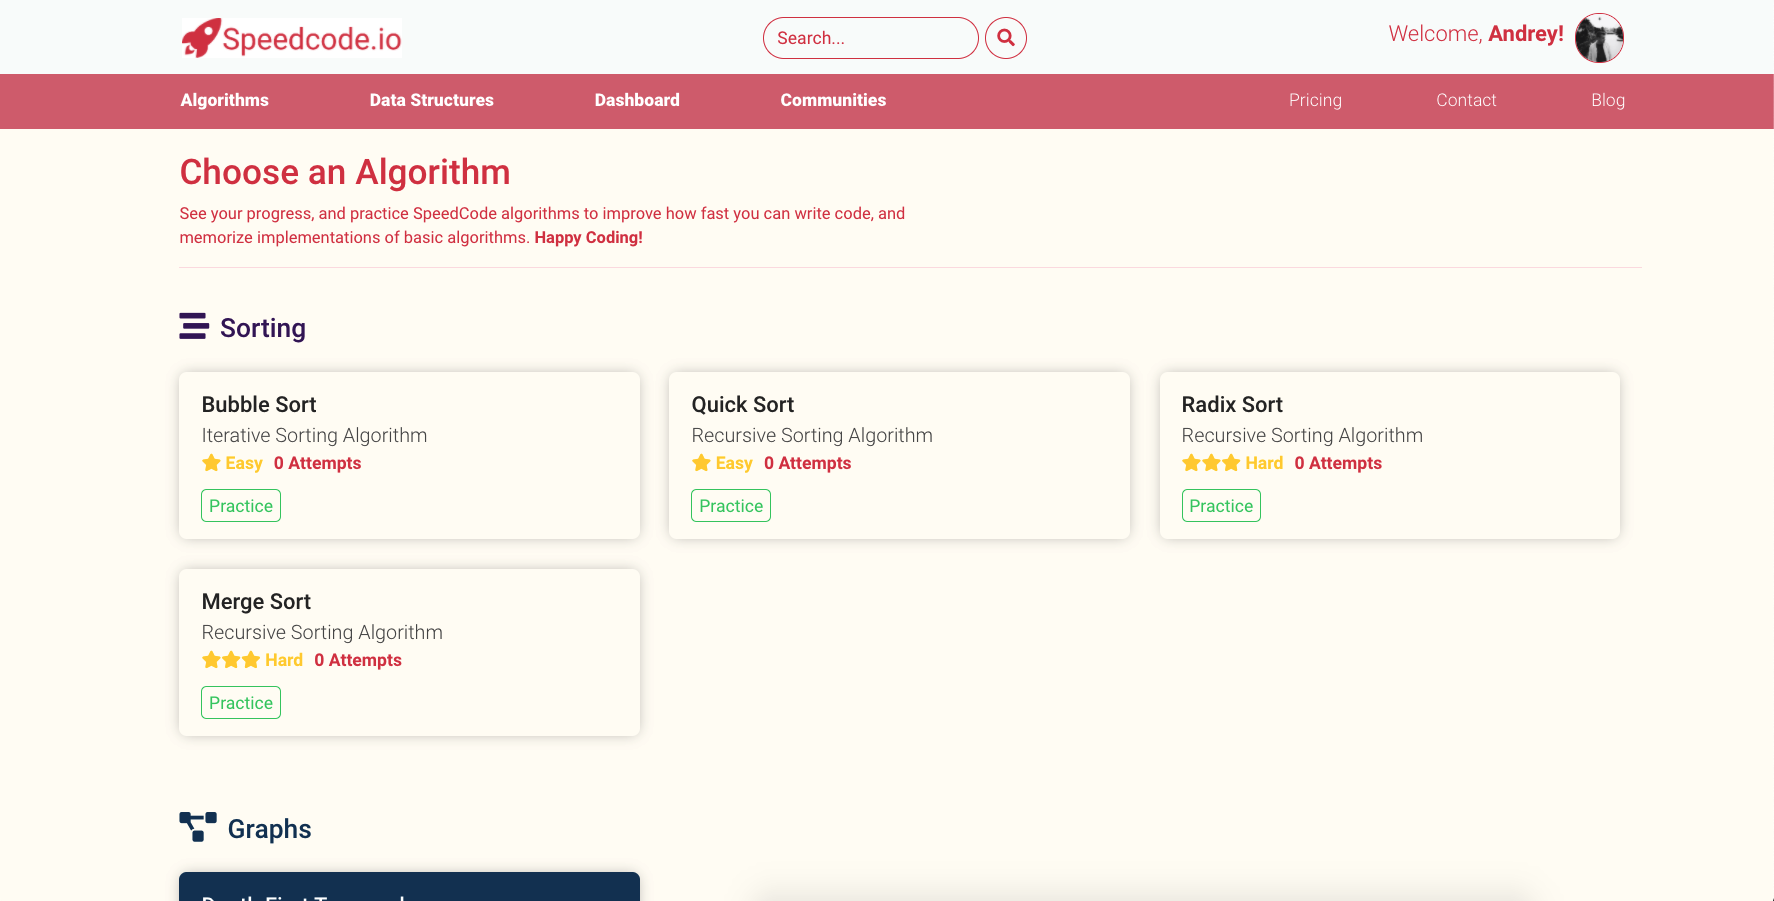
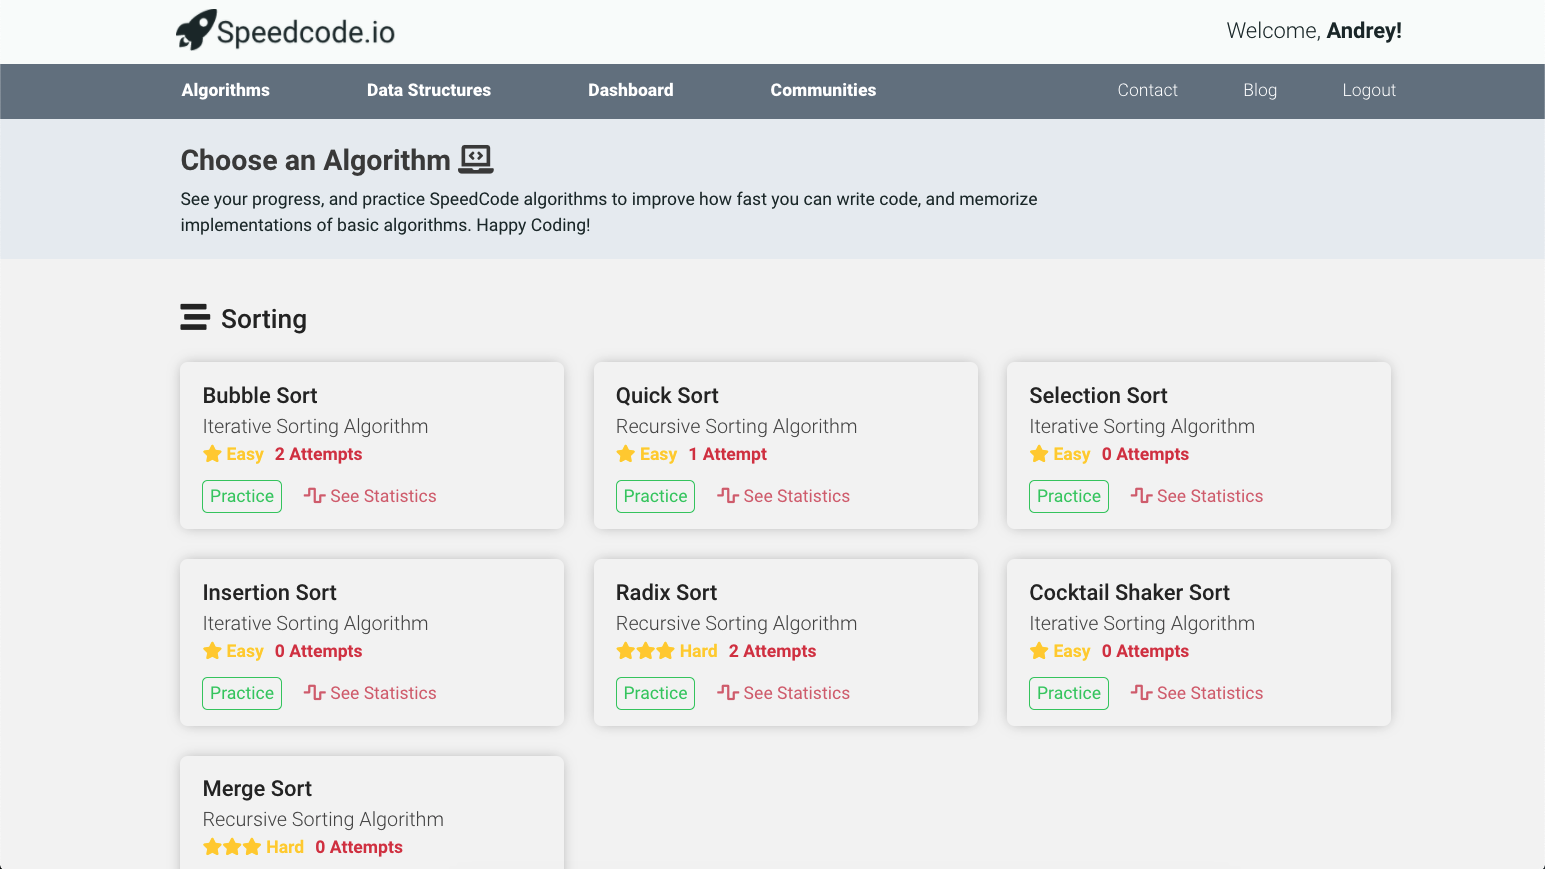
[add] Added new graphics and improved landing page

diff --git a/src/pages/landing.js b/src/pages/landing.js
@@ -1,35 +1,51 @@
-import React from "react";
+import React, { useRef, useEffect, useState } from "react";
 
 // Import Components
 import LandingNavbar from "./../components/landingNavbar";
 
 const Landing = (props) => {
+  const [toScrollToTop, setToScrollToTop] = useState();
+
+  // Scrolling to the top
+  const topRef = useRef(null);
+  const scrollToTop = () => {
+    topRef.current.scrollIntoView({ behavior: "smooth" });
+    setToScrollToTop(false);
+  };
+
+  useEffect(() => {
+    setToScrollToTop(false);
+  }, [])
+
+  useEffect(() => {
+    if(toScrollToTop){
+      scrollToTop();
+    }
+  }, [toScrollToTop]);
+
+  const handleLearnMoreClick = (event) => {
+    event.preventDefault();
+
+    setToScrollToTop(true);
+  }
+
   return (
     <div>
-      
       <div className="landing-hero-wrapper text-center">
-      <LandingNavbar></LandingNavbar>
+        <LandingNavbar></LandingNavbar>
         <div className="row">
           <div className="col-md-2"></div>
           <div className="col-md-8">
             <div className="landing-hero-main-text">Learn and Memorize Algorithms and Data Structures.</div>
             <div className="landing-hero-subtitle">Get Faster at Writing Code.</div>
             <div className="landing-hero-button-wrapper">
-              <button className="btn landing-hero-button">Learn More</button>
+              <button className="btn landing-hero-button" onClick={handleLearnMoreClick}>Learn More</button>
             </div>
           </div>
           <div className="col-md-2"></div>
         </div>
       </div>
-      {/* <div className="landing-stats-row-wrapper text-center">
-        <div className="landing-stats-row-header">Our Results</div>
-        <div className="row">
-          <div className="col-md-3 stats-item">10%</div>
-          <div className="col-md-3 stats-item">10/20</div>
-          <div className="col-md-3 stats-item">+200%</div>
-          <div className="col-md-3 stats-item">20/20</div>
-        </div>
-      </div> */}
+      <div ref={topRef} />
       <div className="landing-description-background-wrapper">
         <div className="landing-description-wrapper">
           <div className="landing-description-row-wrapper">
@@ -40,13 +56,11 @@ const Landing = (props) => {
               <div className="col-md-6">
                 <div className="landing-description-item-wrapper landing-description-item-wrapper-when-on-right">
                   <div className="landing-description-item-title">
-                    A Variety of Algorithms and
-                    <br />
-                    Data Structures
+                    Choose from a Large Variety of Algorithms and Data Structures
                   </div>
                   <div className="landing-description-item-text">
                     Choose from our curated collection of the most popular algorithms and data structures sorted by
-                    category
+                    category that we are constantly updating!
                   </div>
                 </div>
               </div>
@@ -57,37 +71,50 @@ const Landing = (props) => {
               <div className="col-md-6">
                 <div className="landing-description-item-wrapper">
                   <div className="landing-description-item-title">
-                    Learn, Memorize and Perfect
-                    <br />
-                    Writing Data Structures and Algorithms
+                    Learn, Memorize and Perfect your Data Structures and Algorithms
                   </div>
                   <div className="landing-description-item-text">
-                    Choose a language and type over curated implementations of data structures and algorithms in an
-                    interactive console
+                    Choose a language and type over curated implementations of data structures and algorithms while we keep track of
+                    your time, mistakes made and words per minute!
                   </div>
                 </div>
               </div>
               <div className="col-md-6">
-                <img src="/assets/images/landing2.png" className="landing-image" alt="logo" />
+                <img src="/assets/images/landing2-gif.gif" className="landing-image" alt="logo" />
               </div>
             </div>
           </div>
           <div className="landing-description-row-wrapper">
             <div className="row">
               <div className="col-md-6">
-                <img src="/assets/images/landing3.png" className="landing-image" alt="logo" />
+                <img src="/assets/images/landing2.png" className="landing-image" alt="logo" />
               </div>
               <div className="col-md-6">
                 <div className="landing-description-item-wrapper landing-description-item-wrapper-when-on-right">
                   <div className="landing-description-item-title">
-                    Track Statistics and Improve
-                    <br />
-                    Your Skills
+                    Get Real-Time Feedback on your Performance
                   </div>
                   <div className="landing-description-item-text">
-                    Track your progress over time, get meaningful insights and watch yourself grow!
+                    See how you performed after each implementation, try again, go home, or see more statistics for the problem!
                   </div>
                 </div>
+              </div>
+            </div>
+          </div>
+          <div className="landing-description-row-wrapper">
+            <div className="row">
+              <div className="col-md-6">
+                <div className="landing-description-item-wrapper">
+                  <div className="landing-description-item-title">
+                    Track Statistics and Improve Your Skills
+                  </div>
+                  <div className="landing-description-item-text">
+                    Track your progress over time, get meaningful insights and watch yourself get better each implementation!
+                  </div>
+                </div>
+              </div>
+              <div className="col-md-6">
+                <img src="/assets/images/landing3.png" className="landing-image" alt="logo" />
               </div>
             </div>
           </div>

diff --git a/src/components/linksNavbar.js b/src/components/linksNavbar.js
@@ -1,32 +1,55 @@
-import React, {useContext} from "react";
-import { Link } from "react-router-dom";
+import React, { useContext, useState } from "react";
+import { Link, Redirect } from "react-router-dom";
+
+import { useCookies } from "react-cookie";
 
 // Import context
-import {UserContext} from './../context/userProvider';
+import { UserContext } from "./../context/userProvider";
 
 const LinksNavbar = (props) => {
-
   const [userObject] = useContext(UserContext);
+
+  const [cookies, setCookie, removeCookie] = useCookies(["speedcode-cookiez"]);
+  const [toRedirectToLanding, setToRedirectToLanding] = useState(false);
+
+  const handleLogout = (event) => {
+    event.preventDefault();
+
+    console.log("Logging out!");
+
+    removeCookie("speedcode-cookiez-token");
+    removeCookie("speedcode-cookiez");  
+
+    setToRedirectToLanding(true);
+  }
+
+  if(toRedirectToLanding){
+    return <Redirect to="/"/>
+  }
 
   return (
     <div className="links-navbar-wrapper">
       <div className="row links-navbar-row">
         <div className="col-md-7">
           <div className="d-flex justify-content-between links-flex">
-            <Link to={{
-              pathname: "/algorithms",
-              state: {
-                userObject: userObject
-              }
-            }}>
+            <Link
+              to={{
+                pathname: "/algorithms",
+                state: {
+                  userObject: userObject,
+                },
+              }}
+            >
               <h6>Algorithms</h6>
             </Link>
-            <Link to={{
-              pathname: "/datastructures",
-              state: {
-                userObject: userObject
-              }
-            }}>
+            <Link
+              to={{
+                pathname: "/datastructures",
+                state: {
+                  userObject: userObject,
+                },
+              }}
+            >
               <h6>Data Structures</h6>
             </Link>
             <h6>Dashboard</h6>
@@ -36,9 +59,11 @@ const LinksNavbar = (props) => {
         <div className="col-md-2"></div>
         <div className="col-md-3">
           <div className="d-flex justify-content-between links-light-flex">
-            <h6>Pricing</h6>
             <h6>Contact</h6>
             <h6>Blog</h6>
+            <h6 className="logout-button" onClick={handleLogout}>
+              Logout
+            </h6>
           </div>
         </div>
       </div>

diff --git a/src/App.css b/src/App.css
@@ -115,8 +115,8 @@ body {
 .footer-wrapper{
   background-color: #6c7a89;
   color: #ffffff;
-  padding-left: 120px;
-  padding-right: 120px;
+  padding-left: 11%;
+  padding-right: 11%;
   padding-top: 40px;
   padding-bottom: 40px;
 }
@@ -207,7 +207,7 @@ body {
 .landing-image{
   max-width: 100%;
   /* margin-left: 50px; */
-  border: 1px solid #faecee;
+  /* border: 1px solid #f4f4f4; */
   border-radius: 10px;
   box-shadow: 0px 0px 13px -3px rgba(0,0,0,0.3);
 }
@@ -215,23 +215,24 @@ body {
 .landing-description-item-title{
   font-size: 25px;
   font-weight: 800;
-  color: #d63447;
+  color: #1C2B2D;
 }
 
 .landing-description-item-text{
   font-size: 18px;
   font-weight: 400;
-  color: #D56576;
+  color: #283638;
   margin-top: 10px;
 }
 
 .landing-description-background-wrapper{
-  background-color: #fcfbf6;
+  background-color: #f4f4f4;
 }
 
 .landing-description-wrapper{
   margin-left: 5%;
   margin-right: 5%;
+  padding-top: 120px;
 }
 
 .landing-description-item-wrapper{
@@ -318,6 +319,21 @@ body {
   border-radius: 60px;
   margin-left: 10px;
 }
+
+.logout-button{
+  font-size: 16px;
+  font-weight: 300;
+  color: #ffffff;
+}
+
+.logout-button:hover{
+  font-size: 16px;
+  font-weight: 500;
+  color: #ffffff;
+  cursor: pointer;
+}
+
+/* LINKS NAVBAR STUFF */
 
 .links-navbar-wrapper {
   background-color: #6c7a89;

diff --git a/src/components/navbar.js b/src/components/navbar.js
@@ -6,15 +6,19 @@ import { UserContext } from "../context/userProvider";
 const Navbar = (props) => {
   const [userObject] = useContext(UserContext);
 
+  
+
   return (
     <div className="navbar-wrapper">
       <nav className="d-flex justify-content-between align-items-center">
         <img src="/assets/images/black_speedcode_logo@2x.png" className="navbar-logo" width="200" alt="logo" />
+        <div className="d-flex justify-content-right">
+          <h5 className="navbar-welcome">
+            <span className="light-text">Welcome,</span>{" "}
+            <span className="medium-text">{userObject && userObject.firstName}!</span>
+          </h5>
+        </div>
 
-        <h5 className="navbar-welcome">
-          <span className="light-text">Welcome,</span>{" "}
-          <span className="medium-text">{userObject && userObject.firstName}!</span>
-        </h5>
         {/* <img src="/assets/images/Profile_picture.jpg" className="navbar-profile-picture" width="45"></img> */}
       </nav>
     </div>

diff --git a/src/pages/problemSpeed.js b/src/pages/problemSpeed.js
@@ -241,7 +241,7 @@ const AlgorithmDetailSpeed = (props) => {
         userObject: userObject,
         statsObject: {
           language: "python",
-          mistakesMade: mistakesMade,
+          mistakesMade: mistakesMade/2,
           timeSpent: formatTimeToSeconds(minutes, seconds),
           wordsPerMinute: getWordsPerMinute(minutes, seconds, numWords),
         },

diff --git a/src/components/footer.js b/src/components/footer.js
@@ -30,7 +30,7 @@ const Footer = (props) => {
         </div>
         <div className="col-md-2">
           <div className="footer-links-wrapper">
-            <div className="copyright-wrapper">Copyright 2020</div>
+            <div className="copyright-wrapper">Copyright 2021</div>
           </div>
         </div>
       </div>
